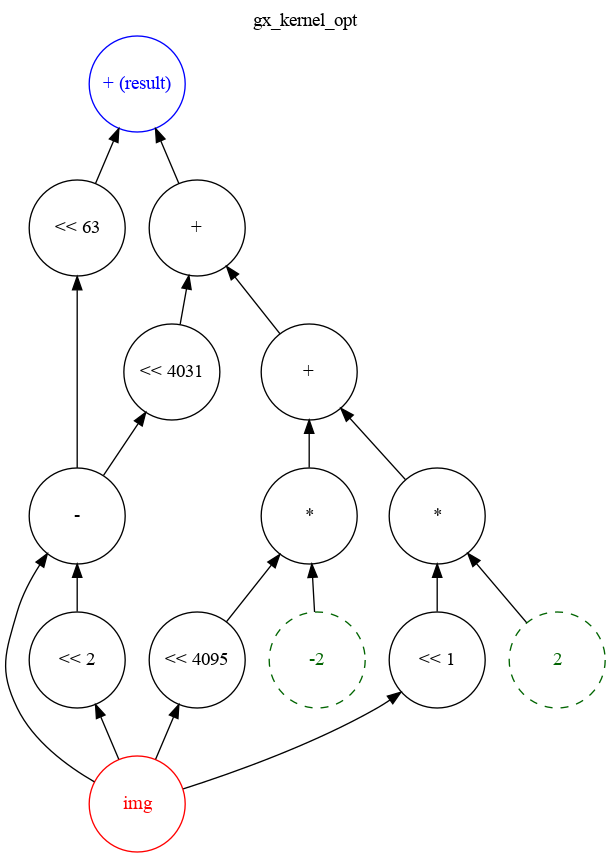
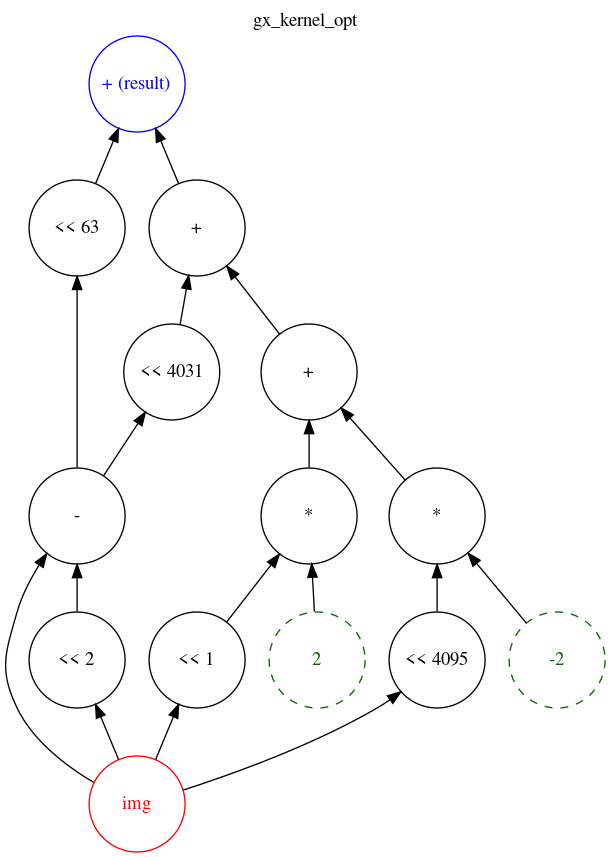
evaluate gx_kernel

diff --git a/benchmarks/gx_kernel/he/gen_he_gx_kernel_noopt.cpp b/benchmarks/gx_kernel/he/gen_he_gx_kernel_noopt.cpp
@@ -18,55 +18,55 @@ const GaloisKeys &galois_keys)
 {
 Ciphertext c1 = encrypted_inputs.at("img");
 size_t slot_count = encoder.slot_count();
-Plaintext p24;
-encoder.encode(vector<std::int64_t>(slot_count, -1), p24);
-Plaintext p27;
-encoder.encode(vector<std::int64_t>(slot_count, 0), p27);
-Plaintext p14;
-encoder.encode(vector<std::int64_t>(slot_count, -2), p14);
-Plaintext p10;
-encoder.encode(vector<std::int64_t>(slot_count, 1), p10);
+Plaintext p30;
+encoder.encode(vector<std::int64_t>(slot_count, -1), p30);
+Plaintext p25;
+encoder.encode(vector<std::int64_t>(slot_count, 1), p25);
 Plaintext p20;
-encoder.encode(vector<std::int64_t>(slot_count, 2), p20);
+encoder.encode(vector<std::int64_t>(slot_count, -2), p20);
 Plaintext p7;
 encoder.encode(vector<std::int64_t>(slot_count, 0), p7);
-Plaintext p30;
-encoder.encode(vector<std::int64_t>(slot_count, 1), p30);
 Plaintext p17;
 encoder.encode(vector<std::int64_t>(slot_count, 0), p17);
-Plaintext p4;
-encoder.encode(vector<std::int64_t>(slot_count, -1), p4);
+Plaintext p27;
+encoder.encode(vector<std::int64_t>(slot_count, 0), p27);
+Plaintext p5;
+encoder.encode(vector<std::int64_t>(slot_count, 1), p5);
+Plaintext p10;
+encoder.encode(vector<std::int64_t>(slot_count, -1), p10);
+Plaintext p15;
+encoder.encode(vector<std::int64_t>(slot_count, 2), p15);
 Ciphertext c2;
 evaluator.rotate_rows(c1, 4032, galois_keys, c2);
-Ciphertext c5;
-evaluator.rotate_rows(c2, 4095, galois_keys, c5);
-evaluator.multiply_plain(c5, p4, c5);
+Ciphertext c9;
+evaluator.rotate_rows(c2, 4095, galois_keys, c9);
+evaluator.multiply_plain(c9, p10, c9);
 Ciphertext c37;
 evaluator.multiply_plain(c2, p7, c37);
-evaluator.add(c5, c37, c5);
+evaluator.add(c9, c37, c9);
 evaluator.rotate_rows(c2, 1, galois_keys, c2);
-evaluator.multiply_plain(c2, p10, c2);
-evaluator.add(c5, c2, c5);
+evaluator.multiply_plain(c2, p5, c2);
+evaluator.add(c9, c2, c9);
 evaluator.rotate_rows(c1, 4095, galois_keys, c2);
-evaluator.multiply_plain(c2, p14, c2);
+evaluator.multiply_plain(c2, p20, c2);
 evaluator.multiply_plain(c1, p17, c37);
 evaluator.add(c2, c37, c2);
 evaluator.rotate_rows(c1, 1, galois_keys, c37);
-evaluator.multiply_plain(c37, p20, c37);
+evaluator.multiply_plain(c37, p15, c37);
 evaluator.add(c2, c37, c2);
-evaluator.add(c5, c2, c5);
+evaluator.add(c9, c2, c9);
 evaluator.rotate_rows(c1, 64, galois_keys, c1);
 evaluator.rotate_rows(c1, 4095, galois_keys, c2);
-evaluator.multiply_plain(c2, p24, c2);
+evaluator.multiply_plain(c2, p30, c2);
 evaluator.multiply_plain(c1, p27, c37);
 evaluator.add(c2, c37, c2);
 evaluator.rotate_rows(c1, 1, galois_keys, c1);
-evaluator.multiply_plain(c1, p30, c1);
+evaluator.multiply_plain(c1, p25, c1);
 evaluator.add(c2, c1, c2);
-evaluator.add(c5, c2, c5);
-encrypted_outputs.emplace("result", move(c5));
+evaluator.add(c9, c2, c9);
+encrypted_outputs.emplace("result", move(c9));
 }
 
 vector<int> get_rotation_steps_gx_kernel_noopt(){
-return vector<int>{4032, 4095, 1, 64};
+return vector<int>{4095, 4032, 1, 64};
 }

diff --git a/benchmarks/gx_kernel/he/gen_he_gx_kernel_opt.cpp b/benchmarks/gx_kernel/he/gen_he_gx_kernel_opt.cpp
@@ -19,26 +19,26 @@ const GaloisKeys &galois_keys)
 Ciphertext c45 = encrypted_inputs.at("img");
 size_t slot_count = encoder.slot_count();
 Plaintext p63;
-encoder.encode(vector<std::int64_t>(slot_count, 2), p63);
-Plaintext p58;
-encoder.encode(vector<std::int64_t>(slot_count, -2), p58);
+encoder.encode(vector<std::int64_t>(slot_count, -2), p63);
+Plaintext p59;
+encoder.encode(vector<std::int64_t>(slot_count, 2), p59);
 Ciphertext c80;
 evaluator.rotate_rows(c45, 2, galois_keys, c80);
 evaluator.sub(c80, c45, c80);
 Ciphertext c82;
 evaluator.rotate_rows(c80, 63, galois_keys, c82);
-Ciphertext c59;
-evaluator.rotate_rows(c45, 4095, galois_keys, c59);
-evaluator.multiply_plain(c59, p58, c59);
-evaluator.rotate_rows(c45, 1, galois_keys, c45);
+Ciphertext c58;
+evaluator.rotate_rows(c45, 1, galois_keys, c58);
+evaluator.multiply_plain(c58, p59, c58);
+evaluator.rotate_rows(c45, 4095, galois_keys, c45);
 evaluator.multiply_plain(c45, p63, c45);
-evaluator.add(c59, c45, c59);
+evaluator.add(c58, c45, c58);
 evaluator.rotate_rows(c80, 4031, galois_keys, c80);
-evaluator.add(c59, c80, c59);
-evaluator.add(c82, c59, c82);
+evaluator.add(c58, c80, c58);
+evaluator.add(c82, c58, c82);
 encrypted_outputs.emplace("result", move(c82));
 }
 
 vector<int> get_rotation_steps_gx_kernel_opt(){
-return vector<int>{2, 63, 4095, 1, 4031};
+return vector<int>{63, 2, 1, 4031, 4095};
 }
